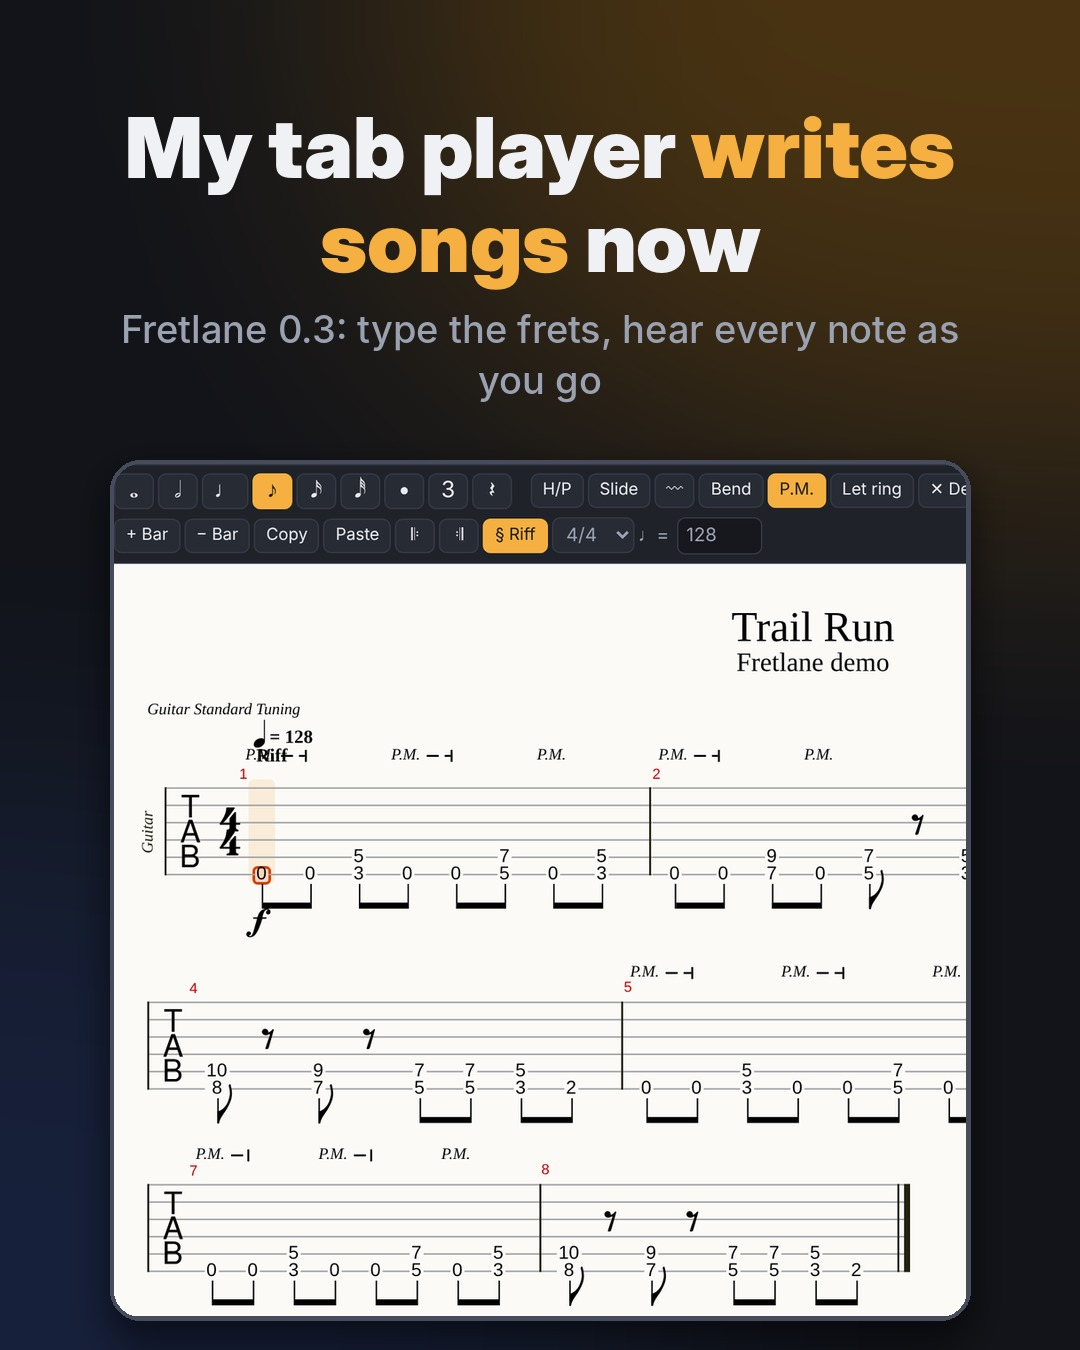
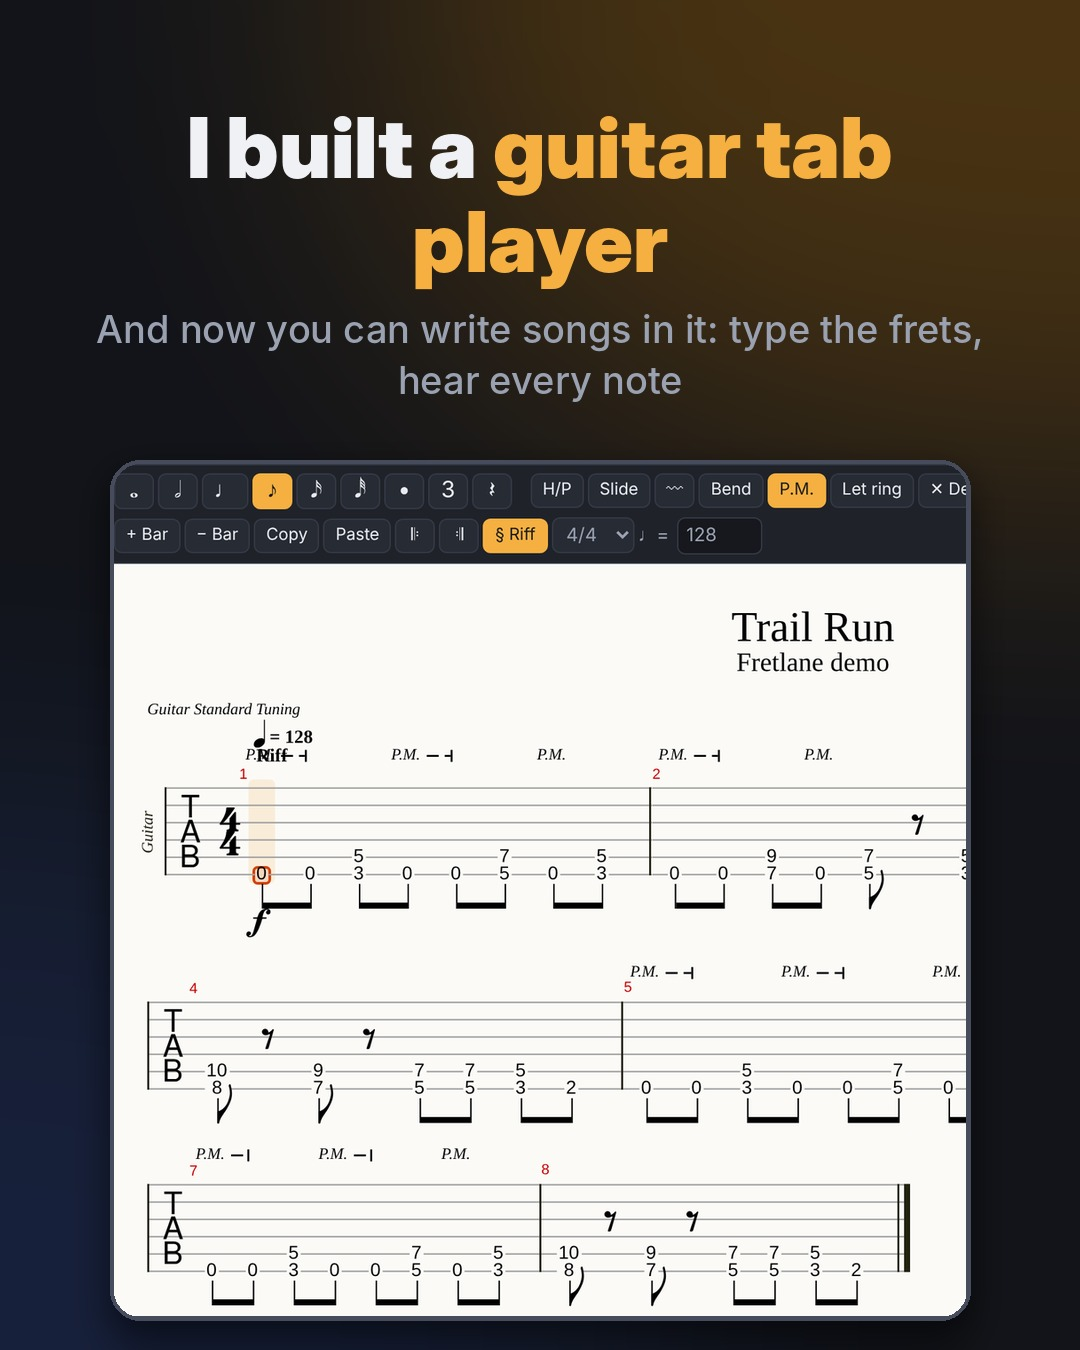
Marketing kit: copy in Maurits's own style, Instagram as a first introduction
The Facebook post, story text and spoken lines in the YouTube script are
short and plain now, without emoji or invented backstory, matching how he
writes. English only. The story and carousel cover introduce Fretlane
instead of saying 'remember', and FRIENDS.md has an Instagram feed caption
(link in bio).

Claude-Session: https://claude.ai/code/session_01PQxTg56CngHnuMyABQpgew

Changed region(s): [[0.0917, 0.0622, 0.8861, 0.3111]]

diff --git a/marketing/friends/render.py b/marketing/friends/render.py
@@ -150,10 +150,10 @@ def main():
     OUT.mkdir(exist_ok=True)
     W, H = 1080, 1350
     fb = [
-        slide(W, H, 'My tab player [writes songs] now', 'Fretlane 0.3: type the frets, hear every note as you go', 'score'),
+        slide(W, H, 'I built a [guitar tab player]', 'And now you can write songs in it: type the frets, hear every note', 'score'),
         slide(W, H, 'Guitar, bass and [drums]', 'One song, every part, and it all plays back together', 'drums'),
         slide(W, H, 'Stuck? Ask for a [bass line]', 'The riff assistant reads your whole song and writes the parts that fit', 'assistant', shot_w=420),
-        slide(W, H, 'Play along with [your own recordings]', 'Rehearsal takes, backing tracks, MP3 or WAV. Slow them down without the pitch going weird.', 'audio'),
+        slide(W, H, 'Play along with [your own recordings]', 'Rehearsal takes, backing tracks, MP3 or WAV. Slow them down, the pitch stays the same.', 'audio'),
         end_card(W, H, story=False),
     ]
     for i, im in enumerate(fb, 1):
@@ -162,7 +162,7 @@ def main():
     W, H = 1080, 1920
     story = [
         None,
-        slide(W, H, 'Now it [writes songs]', 'Type the frets, hear every note as you go', 'score', top=260),
+        slide(W, H, 'And you can [write songs] in it', 'Type the frets, hear every note as you go', 'score', top=260),
         slide(W, H, 'With [drums] too', 'And bass, ukulele, mandolin, banjo…', 'drums', top=260),
         slide(W, H, 'And an AI that writes the [bass line]', 'It reads the whole song first', 'assistant', shot_w=470, top=200),
         slide(W, H, 'Your band\'s rehearsal, [synced to the tab]', 'Drop in your own audio file and pin bar 1', 'audio', top=260),
@@ -171,8 +171,8 @@ def main():
     first = background(W, H)
     d = ImageDraw.Draw(first)
     icon(first, W // 2, 520, 220)
-    y = rich(d, 'Remember that [tab player] I built?', font(900, 104, display=True), W - 140, W / 2, 840, gap=1.1)
-    rich(d, 'It got a lot bigger →', font(600, 46), W - 160, W / 2, y + 50, color=MUTED)
+    y = rich(d, 'I built a [guitar tab player]', font(900, 104, display=True), W - 140, W / 2, 840, gap=1.1)
+    rich(d, 'The band plays along and the tab follows the music →', font(600, 46), W - 200, W / 2, y + 50, color=MUTED)
     story[0] = first
     for i, im in enumerate(story, 1):
         im.save(OUT / f'story-{i}.jpg', quality=92)

diff --git a/marketing/friends/YOUTUBE_SCRIPT.md b/marketing/friends/YOUTUBE_SCRIPT.md
@@ -30,6 +30,9 @@ Record video 2 first: it produces the song you need for video 1.
 **Your hands**
 - Prop a phone on a stand pointing at your fretboard and hit record whenever you play. You'll use it as picture-in-picture or as a cutaway. Even 5 seconds of a real person playing along makes these videos feel less like an ad.
 
+**Talking**
+- Keep it short, the way you write: one or two sentences per shot, then let the app play. The lines below are a guide, not something to read out.
+
 **Honesty rules (yours, from the other kits)**
 - Show the assistant's first answer, even if it's meh. Then show ⟳ Try again or improve it by hand. People trust a demo that shows a miss.
 - Don't speed up footage that has app sound in it.
@@ -43,21 +46,21 @@ Record video 2 first: it produces the song you need for video 1.
 
 | Time | On screen | You say (roughly; your own words beat reading) |
 | --- | --- | --- |
-| 0:00 | **You on camera**, or your hands playing a riff | "This is Fretlane, the guitar tab player I've been building. Version 0.3 just came out, and it went from a player to something you can write songs in. Let me show you." |
-| 0:15 | Library, quick scroll | "Quick recap if you're new: you open a song and the whole band plays. 25 songs are built in, and you can bring your own Guitar Pro files. All free." |
-| 0:30 | Click **✎ Write** → New song dialog → title, guitar + bass + drums → create | "New in 0.3: **✎ Write**. I'll start a song. I pick the instruments, guitar, bass and drums, and that's my band." |
-| 0:50 | Type a riff on the guitar track: digits, arrows, **P.M.** | "You type fret numbers and you hear every note as you type. Arrows move around. It's all keyboard, which is how I wanted it. In Guitar Pro I was always reaching for the mouse." |
-| 1:30 | Press **?** to show the shortcut list for 2 s, close | "Press the question mark and you get every shortcut." |
-| 1:40 | Click the **Drums** track, ↑ ↓ to pick a drum, Enter to add hits | "Drums. As a drummer this is the part I care most about. Up and down picks the drum, and it names it right on the staff. Enter adds a hit." |
+| 0:00 | **You on camera**, or your hands playing a riff | "This is Fretlane, a guitar tab player I'm building. Version 0.3 is out. You can now write songs in it. I'll show you." |
+| 0:15 | Library, quick scroll | "Short recap: you open a song and the band plays along. 25 songs are built in, and you can add your own Guitar Pro files. Free." |
+| 0:30 | Click **✎ Write** → New song dialog → title, guitar + bass + drums → create | "New: ✎ Write. I start a new song and pick guitar, bass and drums." |
+| 0:50 | Type a riff on the guitar track: digits, arrows, **P.M.** | "You type fret numbers and hear each note. Arrows to move around." |
+| 1:30 | Press **?** to show the shortcut list for 2 s, close | "Question mark shows all shortcuts." |
+| 1:40 | Click the **Drums** track, ↑ ↓ to pick a drum, Enter to add hits | "Drums. Up and down picks the drum, Enter adds a hit." |
 | 2:10 | ▶ Play: the whole thing plays back | (Let it play for 5–8 s without talking.) |
-| 2:20 | Select bars (Shift + → →), type in the **Riff assistant**: "a bass line that follows this riff" → Write | "Now the riff assistant. I select my bars and ask for a bass line that follows the guitar. It reads the whole song first, every track, so what comes back should fit." |
-| 2:45 | The answer lands. ▶ Play it | "Here's what it wrote. Let's listen." (Then your honest reaction, e.g. "Not bad, a bit busy in bar three.") |
-| 3:05 | ⟳ Try again, or fix one note by hand. Point at the usage bar | "If I don't like it: try again, or undo, or just change it. It's a normal edit. The bar underneath shows how much of this month's assistant I've used." |
-| 3:25 | **⤓ .gp** in the toolbar | "Everything exports to Guitar Pro, so you're never locked in." |
-| 3:35 | Back to library → a songbook song with your audio file → **⇆ Sync** panel with the waveform | "Second big thing: play along with your own recordings. MP3, WAV, FLAC. Here's a rehearsal recording. You click the first beat in the waveform, it snaps to the note, you pin it, and the tab follows." |
-| 4:00 | Speed to 70%, play | "And you can slow it down without the pitch going weird." |
-| 4:15 | **☁ Cloud** in the library, Add & open a tab | "If you use Fretlane Cloud on the website, your tabs open here too, and the songs you write are backed up there automatically." |
-| 4:30 | End card or you on camera | "Playing along is free, no account needed. Writing and the assistant come with Fretlane Cloud, from five dollars a month. The link is in the description. And if something's broken, please tell me, in the comments or on GitHub." |
+| 2:20 | Select bars (Shift + → →), type in the **Riff assistant**: "a bass line that follows this riff" → Write | "The riff assistant. I select these bars and ask for a bass line that follows the guitar. It reads the whole song first." |
+| 2:45 | The answer lands. ▶ Play it | "This is what it wrote." (Then say what you think, in one sentence.) |
+| 3:05 | ⟳ Try again, or fix one note by hand. Point at the usage bar | "Don't like it? Try again, undo, or change it yourself. The bar below shows how much I used this month." |
+| 3:25 | **⤓ .gp** in the toolbar | "Everything exports to Guitar Pro." |
+| 3:35 | Back to library → a songbook song with your audio file → **⇆ Sync** panel with the waveform | "Second thing: play along with your own recordings. I click the first beat in the waveform, it snaps to the note, pin. Now the tab follows." |
+| 4:00 | Speed to 70%, play | "Slower, same pitch." |
+| 4:15 | **☁ Cloud** in the library, Add & open a tab | "If you use Fretlane Cloud, your tabs open here too, and songs you write are backed up." |
+| 4:30 | End card or you on camera | "Playing along is free, no account needed. Writing and the assistant are in Fretlane Cloud, $5 a month. Link in the description. If something doesn't work, let me know." |
 
 **Title options**
 - I built a guitar tab player. Now it writes songs too (Fretlane 0.3)
@@ -84,16 +87,16 @@ This one is a real session, not a feature tour. Have a rough idea for a riff bef
 
 **Structure**
 
-1. **Cold open (0:00–0:20).** Play 10 seconds of the finished song from the end of the session. "In the next ten minutes I'll write this, from an empty page, with a little help."
-2. **The idea (0:20–1:30).** Pick up the guitar, play your riff idea on camera. Then: "Let's get it into Fretlane." ✎ Write → new song, set tempo and time signature.
+1. **Cold open (0:00–0:20).** Play 10 seconds of the finished song from the end of the session. "I'm going to write this, from an empty page, with some help."
+2. **The idea (0:20–1:30).** Pick up the guitar, play your riff idea on camera. Then: "Let's put it in Fretlane." ✎ Write → new song, set tempo and time signature.
 3. **Typing the riff (1:30–3:30).** Type it in. Narrate what you do: durations (the note buttons, or the keys from **?**), palm mutes, a hammer-on, a rest. Show that **bars fill themselves with rests** and flag when they don't add up. Make one mistake and Ctrl+Z it.
 4. **Sections (3:30–4:00).** § Section: name it "Riff". Copy the bars, paste them, change the ending.
 5. **Ask for a bass line (4:00–5:30).** Select the bars, prompt something specific ("a bass line that locks in with the palm-muted chugs, simple, root notes with a fill at the end"). Show the answer, play it. Your honest opinion. Try again once if it's off, and say why.
-6. **Ask for drums (5:30–6:30).** "Drums: a straight rock beat, crash on bar one, a tom fill into the repeat." Play it. As a drummer, judge it out loud: is the fill playable, is the kick sensible?
+6. **Ask for drums (5:30–6:30).** "Drums: a straight rock beat, crash on bar one, a tom fill into the repeat." Play it. Say out loud whether the fill is playable and the kick makes sense.
 7. **Write something new (6:30–7:30).** Move the cursor past the end, nothing selected, ask for a new section ("a half-time breakdown that answers the riff"). Show that it writes from the cursor bar and adds it, and that the song's key and chords carry over.
-8. **Fix it by hand (7:30–8:30).** Change a few notes of the AI part so it's yours. "It's a starting point, not the song."
+8. **Fix it by hand (7:30–8:30).** Change a few notes of the AI part so it's yours. "It's a starting point."
 9. **Play it all, export (8:30–9:15).** ▶ Practise in the player at 100%, then ⤓ .gp. Optional: open the .gp file in Guitar Pro or TuxGuitar to show it's a normal file.
-10. **Close (9:15–9:45).** On camera with the guitar: play along with what you wrote. "That's it. The assistant comes with Fretlane Cloud. Link below."
+10. **Close (9:15–9:45).** On camera with the guitar: play along with what you wrote. "That's it. The assistant is in Fretlane Cloud. Link below."
 
 **Things to say about the assistant (true, and worth saying)**
 - It reads the whole song (every track, every bar) before it writes, so a bass line follows your guitar instead of being generic.
@@ -116,15 +119,15 @@ The second one works best if the video really is a test, including the misses.
 
 | Time | On screen | You say |
 | --- | --- | --- |
-| 0:00 | You on camera, or a photo of the old band | "This is a rehearsal recording from one of my old bands. I want to play along with it with the tab in front of me, and slow down the parts I've forgotten." |
-| 0:20 | + Add song (or ✎ edit the song) → **🎵 Audio file** → pick the file | "Add the song, click Audio file, pick the recording. It's copied into your library and never uploaded anywhere." |
-| 0:45 | Open the song → **⇆ Sync** → the waveform | "Sync. This is the recording's waveform. I click the first beat of bar 1. It snaps to the start of the note. Pin." |
+| 0:00 | You on camera, or a photo of the old band | "A rehearsal recording of an old band of mine. I want to play along with the tab, and slow down the parts I forgot." |
+| 0:20 | + Add song (or ✎ edit the song) → **🎵 Audio file** → pick the file | "Add the song, click Audio file, pick the recording. It stays on your computer." |
+| 0:45 | Open the song → **⇆ Sync** → the waveform | "Sync. I click the first beat of bar 1 in the waveform. It snaps to the note. Pin." |
 | 1:15 | Play: the cursor follows | "And now the tab follows the recording." |
-| 1:30 | Zoom the waveform (−/+), add a second pin later in the song | "Live bands drift. We definitely did. So I pin another bar further on, and the tab stretches to follow." |
+| 1:30 | Zoom the waveform (−/+), add a second pin later in the song | "Bands drift. I pin another bar later on, and the tab follows that too." |
 | 2:00 | **Tap along (T)** briefly | "Or tap T on every downbeat while it plays." |
-| 2:20 | Speed 60%, loop a tricky part (drag over bars, **L**) | "Then the useful bit: slow it down, loop the hard part. The pitch stays put." |
+| 2:20 | Speed 60%, loop a tricky part (drag over bars, **L**) | "Slow it down, loop the hard part. Pitch stays the same." |
 | 2:45 | Your hands playing along (phone footage), app in the corner | (Play. No talking.) |
-| 3:15 | Close | "Works offline, with any MP3, WAV, FLAC, OGG or M4A, and it's in the free version. Link below." |
+| 3:15 | Close | "Works offline, with MP3, WAV, FLAC, OGG or M4A. It's in the free version. Link below." |
 
 **Title options**
 - Play along with your old band's rehearsal recordings (synced guitar tab)
@@ -137,7 +140,7 @@ The second one works best if the video really is a test, including the misses.
 Crop to 1080×1920. Burn in captions: most people watch muted.
 
 1. **"I asked an AI for a bass line"** (from video 2, step 5): prompt → answer → play → your one-line verdict. Hook text: *"Can an AI write a bass line for my riff?"*
-2. **"Drummer writes drums"** (from video 1, 1:40, or video 2, step 6): typing a beat with ↑ ↓ and Enter, then it plays. Hook: *"Drummer since I was 12. Here's how I write drum tabs now."*
+2. **"Drummer writes drums"** (from video 1, 1:40, or video 2, step 6): typing a beat with ↑ ↓ and Enter, then it plays. Hook: *"Writing a drum part in Fretlane"*
 3. **"My old band, synced"** (from video 3): the waveform pin, then your hands playing along at 70%. Hook: *"Playing along with a 15-year-old rehearsal tape"* (if that's true; adjust the number).
 
 ---

diff --git a/marketing/friends/FRIENDS.md b/marketing/friends/FRIENDS.md
@@ -1,6 +1,6 @@
 # Tell your friends: Facebook post + Instagram story (Fretlane 0.3)
 
-Written in your voice: first person, plain, honest about limits. Change anything that doesn't sound like you.
+The copy follows the style of your own sent mail (see *Your voice*). Change anything that still doesn't sound like you.
 
 | File | For |
 | --- | --- |
@@ -15,61 +15,61 @@ Written in your voice: first person, plain, honest about limits. Change anything
 - **The riff assistant was not used.** The prompt "A bass line and drums that follow this riff" is typed into the box, but never sent. No AI answer is shown anywhere, because I can't reach Claude from here without your key. If you want to show a real answer, take a screenshot of one in your own signed-in app (see the checklist).
 - **Drawn:** the headlines, the backgrounds and the end card. Same colours and font (Inter) as the earlier Instagram kit.
 
+## Your voice
+Taken from your own sent mail (only the style; nothing from it is quoted or stored here):
+- Short. Say the point in the first sentence, then stop.
+- Plain facts and numbers, few adjectives, no hype words.
+- Ask directly: "Could you…?", "Would be great if…".
+- Warm but brief: "Top.", "Thanks!", an occasional ":)". No emoji.
+- No backstory or feelings you didn't state yourself.
+
 ## Facebook post
 
-Upload `fb-1` … `fb-5` as photos. Facebook doesn't hide posts with links in the body the way LinkedIn does, so the link can go in the text.
+Upload `fb-1` … `fb-5` as photos. Facebook doesn't hide posts with a link in the text, so it can go in the post.
 
-### English
+> For a while now I've been building Fretlane, a guitar tab player. You open a song, the band plays along and the tab follows the music.
+>
+> Version 0.3 is out and it does a lot more now:
+> - Write your own songs: guitar, bass and drums (ukulele, mandolin and banjo too)
+> - A riff assistant that writes a bass line or drums that fit your riff
+> - Play along with your own recordings, and slow them down if you want
+> - Export everything to Guitar Pro
+>
+> Playing along is free. Writing songs and the assistant are part of Fretlane Cloud, $5 a month.
+>
+> Would be great if you try it, or send it to someone who plays guitar. And if something doesn't work, let me know :)
+>
+> fretlane.app
 
-> If you missed it: for a while now I've been building Fretlane, a guitar tab player. You open a song and the whole band plays along, with the tab following the music. 🎸
->
-> I just released a big update, and it does a lot more now:
->
-> ✍ **You can write your own songs in it.** Type the fret numbers and you hear every note as you type. Guitar, bass, ukulele, mandolin, banjo, and drums.
-> 🥁 Drums mattered to me in particular. I've been a drummer since I was 12, and I wrote most of my band songs in Guitar Pro with a guitar on my lap. This is the tool I wanted back then.
-> 🤖 **There's a riff assistant.** Select a few bars and ask for "heavier", or ask for a bass line and drums that fit what you wrote. It reads the whole song first. It doesn't always nail it, but "Try again" and undo are right there.
-> 🎧 **Play along with your own recordings:** an old rehearsal take, a backing track, any MP3 or WAV. Slow it down without the pitch changing, and the tab stays in sync.
-> ⤓ Everything exports to Guitar Pro.
-> 🍏 The Mac version is now signed by Apple, so you no longer have to click "Open Anyway".
->
-> Playing along stays free, and you don't need an account. Writing songs and the assistant come with Fretlane Cloud, from $5 a month. That also pays for the AI behind it.
->
-> I'd really appreciate it if you tried it, or passed it on to that one friend who's always playing guitar at parties. And tell me what's broken. Honestly, that helps me most.
->
-> 👉 fretlane.app
+### Short version (comment, WhatsApp, repost)
 
-### Nederlands
+> Fretlane 0.3 is out. You can now write your own songs in it, with guitar, bass and drums, and a riff assistant for when you're stuck. Playing along is free: fretlane.app
 
-> Voor wie het gemist heeft: ik ben al een tijdje bezig met Fretlane, een tab-speler voor gitaar. Je opent een nummer, de hele band speelt mee en de tab loopt mee met de muziek. 🎸
->
-> Er is net een flinke update uit, en hij kan nu een stuk meer:
->
-> ✍ **Je kunt er je eigen nummers in schrijven.** Typ de fretnummers en je hoort elke noot meteen. Gitaar, bas, ukelele, mandoline, banjo, en drums.
-> 🥁 Die drums waren voor mij belangrijk. Ik drum sinds mijn twaalfde, en schreef de nummers voor mijn bands in Guitar Pro met een gitaar op schoot. Dit is de tool die ik toen had willen hebben.
-> 🤖 **Er zit een riff-assistent in.** Selecteer een paar maten en vraag om "zwaarder", of vraag om een baslijn en drums die passen bij wat je al hebt. Hij leest eerst het hele nummer. Het is niet altijd raak, maar "Try again" en ongedaan maken zitten er gewoon in.
-> 🎧 **Speel mee met je eigen opnames:** een oude repetitie-opname, een backing track, elke MP3 of WAV. Langzamer afspelen zonder dat de toonhoogte verandert, en de tab blijft synchroon.
-> ⤓ Alles kun je exporteren naar Guitar Pro.
-> 🍏 De Mac-versie is nu ondertekend door Apple, dus geen "Toch openen" meer.
->
-> Meespelen blijft gratis, zonder account. Nummers schrijven en de assistent zitten in Fretlane Cloud, vanaf $5 per maand. Daarmee betaal ik ook de AI erachter.
->
-> Ik zou het heel tof vinden als je het probeert, of het doorstuurt naar die ene vriend die op elk feestje de gitaar pakt. En laat me weten wat er stuk is. Eerlijk gezegd heb ik daar het meeste aan.
->
-> 👉 fretlane.app
+## Instagram
 
-### Short version (for a comment, WhatsApp, or a repost)
+This is your first post about Fretlane on Instagram, so it introduces Fretlane instead of announcing an update. Post the feed post and the story on the same day: the story sends people to the link, the post stays on your profile.
 
-> My tab player Fretlane writes songs now: type the frets, add drums and bass, and ask the riff assistant for a part when you're stuck. Playing along with your own recordings works too. Free to play along, writing from $5/month. fretlane.app 🎸
+### Feed post
 
-## Instagram story
+Upload `fb-1` … `fb-5` as one carousel post. Instagram doesn't make links in captions clickable, so put `https://fretlane.app` in your bio (Edit profile → Links) for as long as you're promoting it.
 
-Post the six frames in order. The text on the images is in English; the stickers can be in whatever language your followers use.
+> I built a guitar tab player: Fretlane. You open a song, the band plays along and the tab follows the music.
+>
+> You can also write your own songs in it, with guitar, bass and drums, and a riff assistant that writes a part that fits. And you can play along with your own recordings.
+>
+> Playing along is free. Link in bio. If something doesn't work, let me know :)
+>
+> #guitar #guitartabs #songwriting
+
+### Story
+
+Post the six frames in order.
 
 | Frame | On the image | Add in Instagram |
 | --- | --- | --- |
-| `story-1` | "Remember that tab player I built?" | Nothing, or a short clip of you playing a riff as the background audio |
-| `story-2` | "Now it writes songs" (editor, guitar track) | Nothing |
-| `story-3` | "With drums too" (drum track) | **Poll** in the empty space at the bottom: "Do you play? 🎸" → "Yes" / "I used to" |
+| `story-1` | "I built a guitar tab player" | Nothing, or a short clip of you playing a riff as the background audio |
+| `story-2` | "And you can write songs in it" (editor, guitar track) | Nothing |
+| `story-3` | "With drums too" (drum track) | **Poll** in the empty space at the bottom: "Do you play guitar?" → "Yes" / "I used to" |
 | `story-4` | "And an AI that writes the bass line" | **Question** sticker: "What should it write next?" |
 | `story-5` | "Your band's rehearsal, synced to the tab" | Nothing |
 | `story-6` | "Free download at fretlane.app" | **Link** sticker → `https://fretlane.app` where it says "Link sticker goes here ↓" |
@@ -80,7 +80,6 @@ The poll and question stickers matter more than they seem: replies come in as DM
 - **Open `fretlane.app` on your phone.** The story's link sticker sends people there, and most of them will be on a phone. The desktop app doesn't run on phones, so check that the page explains that and offers the online player or `/try`.
 - **"Mac version is now signed by Apple"**: true from v0.3.3 (released 20 October). If anyone still gets a warning, they downloaded an older version.
 - **Pricing**: the post says "from $5 a month", which matches the site today ($5 / $25 / $50 for 96 / 480 / 1,152 assistant bars). Update both texts if that changes.
-- **The drummer and Guitar Pro lines** come from what you've told me about yourself. Cut them if they feel too personal for Facebook.
 - **Want a real AI answer in the visuals?** Ask the assistant something in your own app, take a screenshot when the new bars are in, and send it to me. I'll swap it into `story-4` / `fb-3`. Keep the first answer, even if it's not perfect.
 
 ## Rebuild
